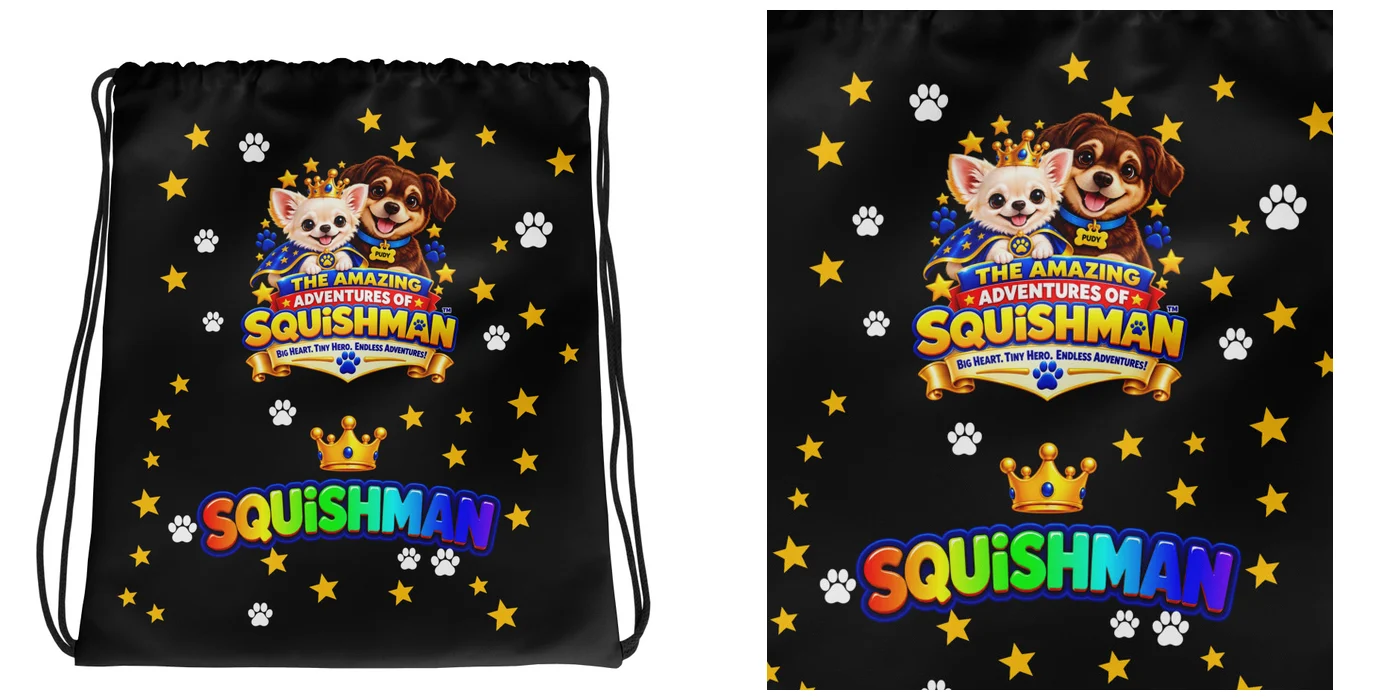
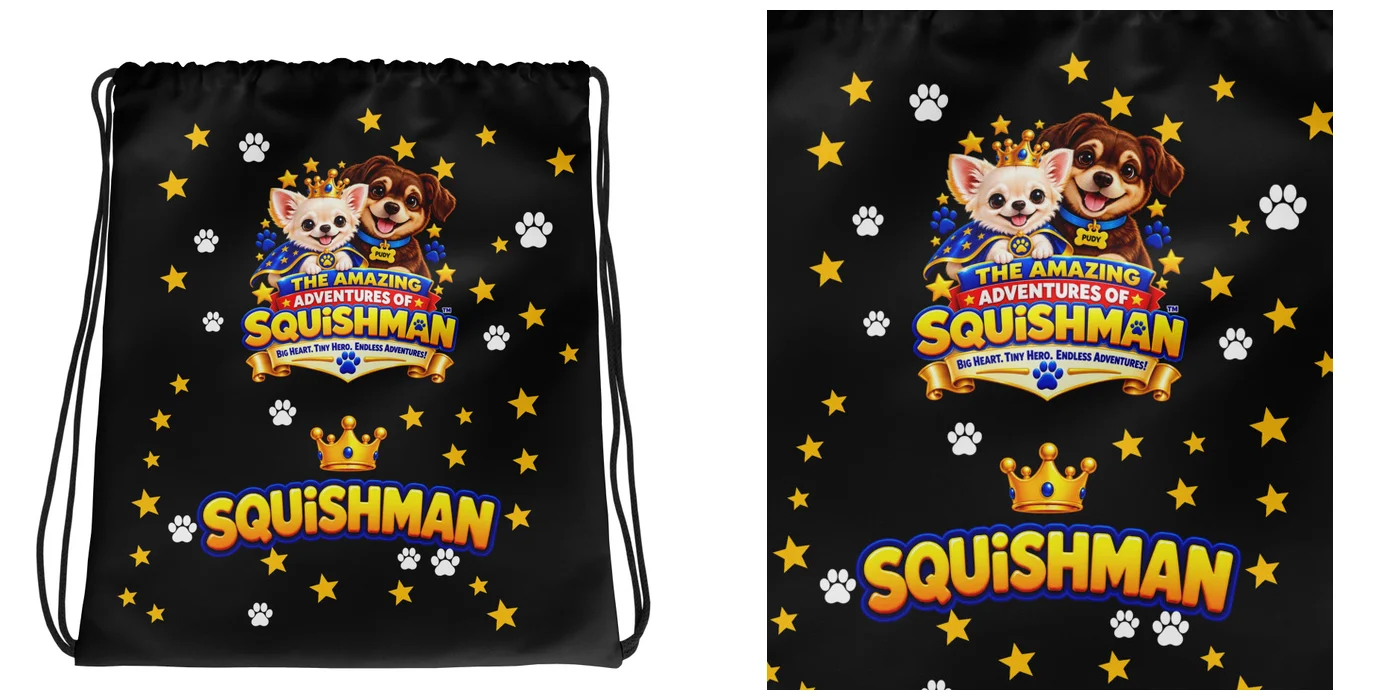
Drawstring bags: gold wordmark files, photos and copy
Claude-Session: https://claude.ai/code/session_01FVMXiv2oXUguMNtyLAxW5e

Changed region(s): [[0.6143, 0.75, 0.8907, 0.87], [0.1229, 0.69, 0.3686, 0.78]]

diff --git a/public/merch.js b/public/merch.js
@@ -119,7 +119,7 @@ const SHOP={
  'Squish Squad Socks':{key:'SOCKS',img:'socks',name:'Squish Squad Socks',facts:'Crew socks · S (women 6–8, men 5–6.5, big kids), M, L',shown:'Outside and back of the sock',
   desc:'Soft, stretchy crew socks covered in gold stars and paw prints, with Squish Man under the cuff and a cushioned sole. Size S fits big kids and smaller grown-ups.'},
  'Squish Squad Drawstring Bags':{key:'DRAWSTRING',img:'drawstring',name:'Squish Squad Drawstring Bag',facts:'15×17″ · 100% polyester · cotton straps',shown:'Same design on both sides',
-  desc:'A light drawstring backpack for gym class, swim lessons and sleepovers, with The Amazing Adventures of Squish Man banner, the gold crown and a rainbow SQUISHMAN, and gold stars and paw prints, on both sides.'},
+  desc:'A light drawstring backpack for gym class, swim lessons and sleepovers, with The Amazing Adventures of Squish Man banner, the gold crown and a gold SQUISHMAN, and gold stars and paw prints, on both sides.'},
  'Squish Squad Backpacks':{key:'BACKPACK',img:'backpack',name:'Squish Squad Backpack',facts:'16×12×4″ · water-resistant · laptop pocket',shown:'Front of the backpack',
   desc:'A roomy, water-resistant backpack with The Amazing Adventures of Squish Man banner on the front, a gold crown and rainbow SQUISHMAN on the front pocket, and gold stars and paw prints all around. Inside laptop sleeve. Great for school and adventures.'},
  'Squish Squad Mugs':{key:'MUG',img:'mug',name:'Squish Squad Mug',facts:'11 oz ceramic · dishwasher and microwave safe',

diff --git a/src/fulfillment/merch.ts b/src/fulfillment/merch.ts
@@ -1146,16 +1146,16 @@ MERCH.push({
 });
 
 // Drawstring bags (Printful product 262, all-over print, 15x17 in): the
-// backpack's banner, crown and rainbow SQUISHMAN with stars and paw prints, on
+// backpack's banner and crown with a gold SQUISHMAN, stars and paw prints, on
 // a solid color. Orders take one strip for the whole bag: the front on the
 // top half and the back, upside down, below the fold at the bottom of the
 // bag. Each color has its own strip.
 const DRAWSTRING_FILES: Record<string, number> = {
-	"White": 1092476237,
-	"Pink": 1092476245,
-	"Royal Blue": 1092476254,
-	"Grey": 1092476261,
-	"Black": 1092476264,
+	"White": 1092478892,
+	"Pink": 1092478897,
+	"Royal Blue": 1092478899,
+	"Grey": 1092478902,
+	"Black": 1092478905,
 };
 MERCH.push({
 	key: "DRAWSTRING",
